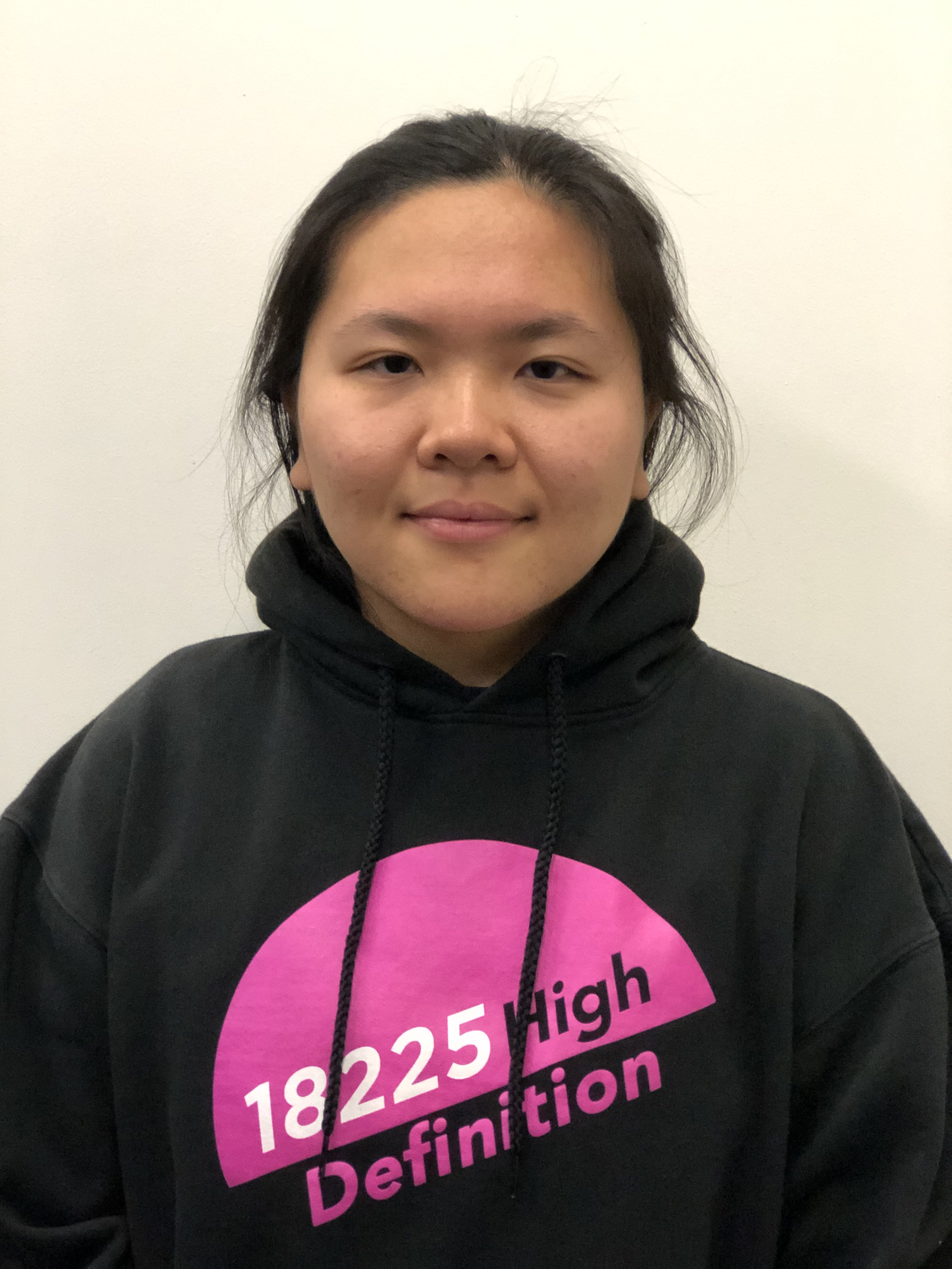
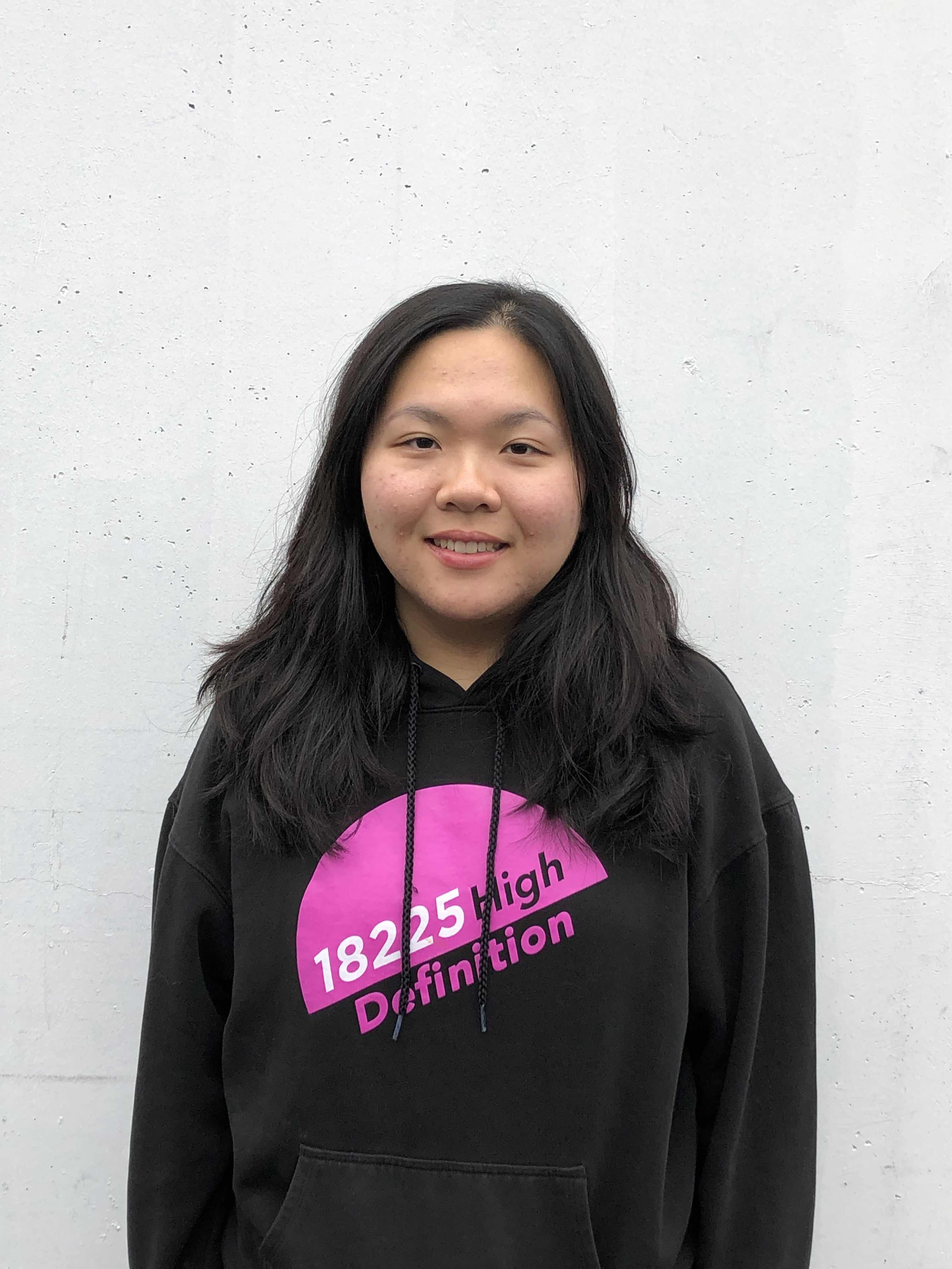
updated pics and bios

diff --git a/pages/about.js b/pages/about.js
@@ -277,9 +277,8 @@ export default function About() {
                     objectFit="cover"
                   />
                 </div>
-                <h3>Albert Lu</h3>
-                <p className="description">CAD</p>
                 <br />
+                <h3>Albert Lu</h3>
                 <br />
                 <p style={{ fontWeight: 300 }}>
                   I'm Albert, a 7th grader at Tyee Middle School. This is my 3rd
@@ -306,10 +305,9 @@ export default function About() {
                     objectFit="cover"
                   />
                 </div>
+                <br />
                 <h3>Allen Wu</h3>
                 <p className="description">Co-Captain</p>
-                <br />
-                <br />
                 <p style={{ fontWeight: 300 }}>
                   I'm Allen, a freshman at Newport High School. This is my 2nd
                   year of FTC, following 2 years of FLL. Outside of robotics,
@@ -336,9 +334,8 @@ export default function About() {
                     objectFit="cover"
                   />
                 </div>
+                <br />
                 <h3>Andrew Pai</h3>
-                <p className="description">Safety Captain</p>
-                <p className="description">Drive / Mechanical</p>
                 <br />
                 <p style={{ fontWeight: 300 }}>
                   I'm Andrew, a 9th grader at Newport High School. This is my
@@ -360,22 +357,90 @@ export default function About() {
                 >
                   <Image
                     loader={loader}
+                    src="/images/teammembers/alex.jpg"
+                    className="member"
+                    layout="fill"
+                    objectFit="cover"
+                  />
+                </div>
+                <br />
+                <h3>Alexander Bonev</h3>
+                <br />
+                <p style={{ fontWeight: 300 }}>x</p>
+              </div>
+
+              <div className="grid-item">
+                <div
+                  style={{
+                    position: "relative",
+                    margin: "auto",
+                    width: WIDTH,
+                    height: HEIGHT,
+                  }}
+                >
+                  <Image
+                    loader={loader}
                     src="/images/teammembers/andy.jpg"
                     className="member"
                     layout="fill"
                     objectFit="cover"
                   />
                 </div>
+                <br />
                 <h3>Andy Tien</h3>
-                <p className="description">CAD / Mech Lead</p>
-                <p className="description"></p>
                 <br />
                 <p style={{ fontWeight: 300 }}>
-                  I'm Andy, a freshman at Newport High School. This is my 1st
-                  year of FTC, following 2 years of FLL. When I'm not dabbling
-                  in competitive and robotics mechanical engineering and
-                  programming, I enjoy playing soccer and violin.
+                  I’m Andy, a 10th grader at Newport High School. This is my
+                  fourth year in FIRST (2 in FLL and 2 in FTC). In my free time,
+                  I enjoy playing violin and soccer. A fun fact about me is that
+                  I like dinosaurs.
                 </p>
+              </div>
+
+              <div className="grid-item">
+                <div
+                  style={{
+                    position: "relative",
+                    margin: "auto",
+                    width: WIDTH,
+                    height: HEIGHT,
+                  }}
+                >
+                  <Image
+                    loader={loader}
+                    src="/images/teammembers/calvin.jpg"
+                    className="member"
+                    layout="fill"
+                    objectFit="cover"
+                  />
+                </div>
+                <br />
+                <h3>Calvin Zhang</h3>
+                <br />
+                <p style={{ fontWeight: 300 }}>x</p>
+              </div>
+
+              <div className="grid-item">
+                <div
+                  style={{
+                    position: "relative",
+                    margin: "auto",
+                    width: WIDTH,
+                    height: HEIGHT,
+                  }}
+                >
+                  <Image
+                    loader={loader}
+                    src="/images/teammembers/cynthia.jpg"
+                    className="member"
+                    layout="fill"
+                    objectFit="cover"
+                  />
+                </div>
+                <br />
+                <h3>Cynthia Lu</h3>
+                <br />
+                <p style={{ fontWeight: 300 }}>x</p>
               </div>
 
               <div className="grid-item">
@@ -395,14 +460,14 @@ export default function About() {
                     objectFit="cover"
                   />
                 </div>
+                <br />
                 <h3>Eesha Jain</h3>
                 <p className="description">Co-Captain</p>
-                <br />
                 <p style={{ fontWeight: 300 }}>
-                  I'm Eesha, a 9th grader at Interlake High School. This is my
-                  5th year in FIRST (2 in FLL and 3 in FTC). In my free time, I
-                  enjoy web and app development, writing, listening to music,
-                  and hanging out with my friends.
+                  I'm Eesha, a 10th grader at Interlake High School. This is my
+                  6th year in FIRST (2 in FLL and 4 in FTC). In my free time, I
+                  enjoy programming and listening to music. A fun fact about me
+                  is that I enjoy eating mint chocolate chip icecream.
                 </p>
               </div>
 
@@ -423,9 +488,8 @@ export default function About() {
                     objectFit="cover"
                   />
                 </div>
-                <h3>Eugene Li</h3>
-                <p className="description">Outreach</p>
                 <br />
+                <h3>Eugene Li</h3>
                 <br />
                 <p style={{ fontWeight: 300 }}>
                   I'm Eugene, a freshman at Newport High School. This is my 2nd
@@ -447,20 +511,43 @@ export default function About() {
                 >
                   <Image
                     loader={loader}
+                    src="/images/teammembers/jeffrey.jpg"
+                    className="member"
+                    layout="fill"
+                    objectFit="cover"
+                  />
+                </div>
+                <br />
+                <h3>Jeffrey Luo</h3>
+                <br />
+                <p style={{ fontWeight: 300 }}>x</p>
+              </div>
+
+              <div className="grid-item">
+                <div
+                  style={{
+                    position: "relative",
+                    margin: "auto",
+                    width: WIDTH,
+                    height: HEIGHT,
+                  }}
+                >
+                  <Image
+                    loader={loader}
                     src="/images/teammembers/julia.jpg"
                     className="member"
                     layout="fill"
                     objectFit="cover"
                   />
                 </div>
+                <br />
                 <h3>Julia Wang</h3>
                 <p className="description">Co-Captain</p>
-                <br />
                 <p style={{ fontWeight: 300 }}>
-                  I'm Julia, a sophomore at The Bush School. This is my 2nd year
-                  of FTC following 1 year of FLL. Some of my favorite things
-                  include golf, Pixar, astrology, Valorant, strawberry icecream,
-                  and the Land of Stories book series.
+                  I'm Julia, a 11th grader at The Bush School. This is my fourth
+                  year in FIRST (1 in FLL and 3 in FTC). In my free time, I
+                  enjoy acrylic painting and playing golf. A fun fact about me
+                  is that I have gotten 17 mosquito bites at once before!
                 </p>
               </div>
 
@@ -481,9 +568,8 @@ export default function About() {
                     objectFit="cover"
                   />
                 </div>
-                <h3>Rohit Venkatesan</h3>
-                <p className="description">CAD / Mechanical</p>
                 <br />
+                <h3>Rohit Venkatesan</h3>
                 <br />
                 <p style={{ fontWeight: 300 }}>
                   I'm Rohit, an 8th grader at Evergreen Middle School. This is
@@ -519,7 +605,6 @@ export default function About() {
                 </div>
                 <h3>Emma Shi</h3>
                 <p className="description">Team Co-Founder</p>
-                <br />
                 <p style={{ fontWeight: 300 }}>
                   I'm Emma, and I have 9 years of experience in FIRST (6th year
                   in FTC), and enjoyed learning the disciplines of FIRST. As a
@@ -549,7 +634,6 @@ export default function About() {
                 </div>
                 <h3>Erik Ma</h3>
                 <p className="description">Team Co-Founder</p>
-                <br />
                 <p style={{ fontWeight: 300 }}>
                   I'm Erik, and I have 3 years of experience in FIRST, and I
                   have a big passion for engineering. As co-captain, I managed
@@ -578,8 +662,6 @@ export default function About() {
                   />
                 </div>
                 <h3>Katrina Li</h3>
-                <p className="description"></p>
-                <br />
                 <br />
                 <p style={{ fontWeight: 300 }}>
                   I'm Katrina, and I focused on business and outreach. I am
@@ -607,8 +689,6 @@ export default function About() {
                   />
                 </div>
                 <h3>Lucas Wu</h3>
-                <p className="description"></p>
-                <br />
                 <br />
                 <p style={{ fontWeight: 300 }}>
                   I'm Lucas, and I have 3 years of experience in FTC, focusing
@@ -637,8 +717,6 @@ export default function About() {
                   />
                 </div>
                 <h3>Rishabh Venkatesan</h3>
-                <p className="description"></p>
-                <br />
                 <br />
                 <p style={{ fontWeight: 300 }}>
                   I'm Rishabh, and I have 5 years of FIRST experience in both
